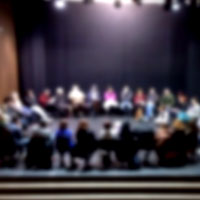
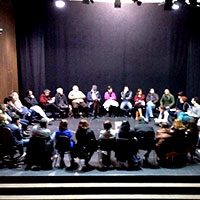
add collage

diff --git a/templates/bienvenido.html b/templates/bienvenido.html
@@ -41,7 +41,7 @@
         <a href="#/quienes">
           <div class="panel panel-default">
             <div class="panel-body">
-              <img src="images/logo_med.png" class="img-responsive center-block"/>
+              <img src="images/square3.jpg" class="img-responsive center-block"/>
             </div>
             <div class="panel-footer">
               <h4 class="text-center">{{'CANDIDATOS' | translate}}</h4>
